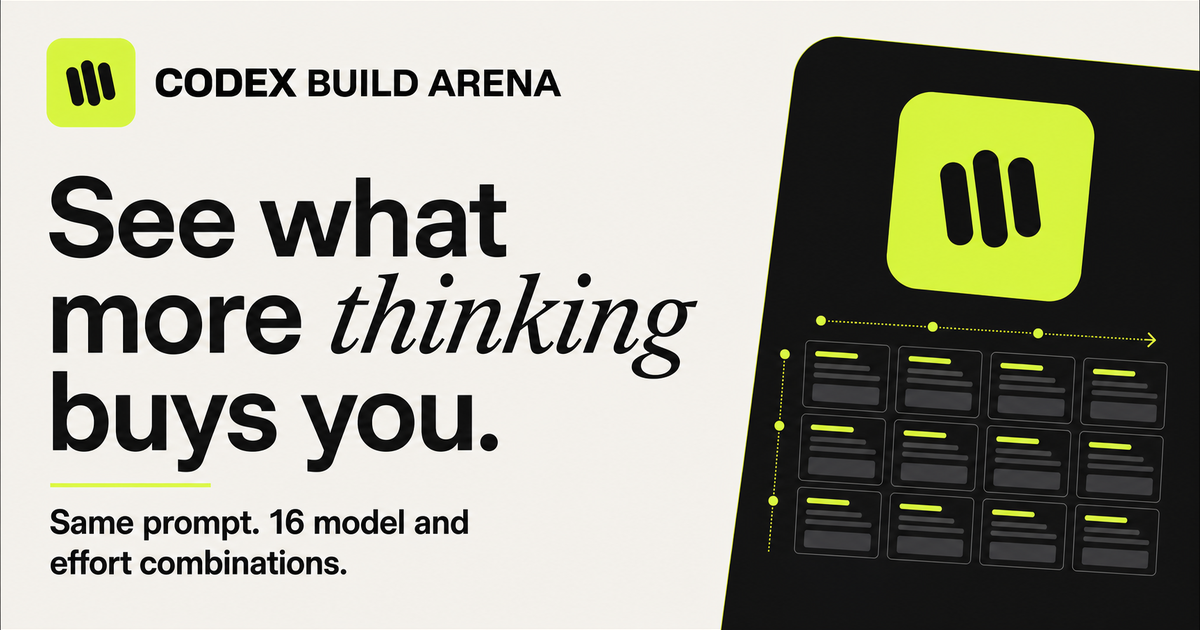
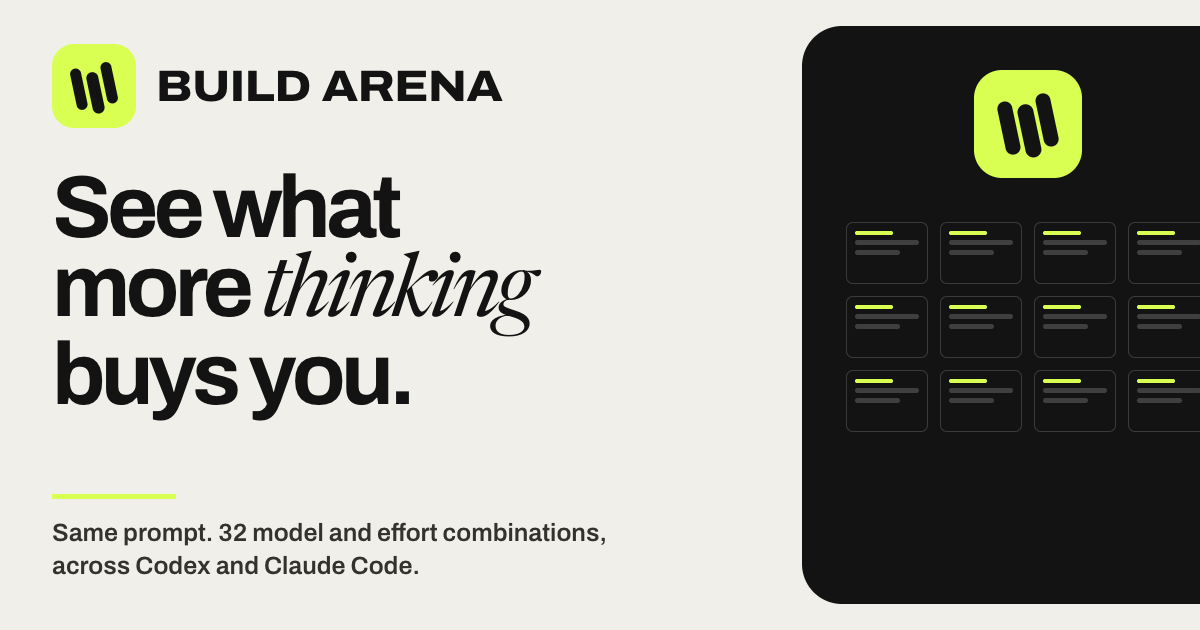
Update the social card and page metadata for two rolls
The title, description and OG image all claimed seventeen builds from
Codex alone, which stopped being true when the Claude Code roll landed.

- Replace the hand-made og-image.png with scripts/build-og-image.mjs, which
  renders scripts/og-image.html and reads the combination count from the
  benchmark configs. The previous card had no source, so its "16 model and
  effort combinations" had no obvious place to be corrected.
- Retitle to "Build Arena" throughout; the site is no longer Codex-only.
- Point the code reviewer at a chosen benchmark with --benchmark. The
  instrument stays frozen — rubric, reviewer model, effort and blinding are
  unchanged — and the config now names both corpora it covers.

🤖 Generated with [Claude Code](https://claude.com/claude-code)

Changed region(s): [[0.5858, 0.0302, 1.0, 1.0], [0.0308, 0.2714, 0.5858, 0.9349], [0.0308, 0.0603, 0.4625, 0.2111]]

diff --git a/scripts/og-image.html b/scripts/og-image.html
@@ -1,0 +1,144 @@
+<!doctype html>
+<html lang="en">
+  <head>
+    <meta charset="UTF-8" />
+    <link
+      rel="stylesheet"
+      href="https://fonts.googleapis.com/css2?family=Archivo:wdth,wght@62..125,400..800&family=Newsreader:ital,opsz,wght@1,6..72,400&display=swap"
+    />
+    <style>
+      * { box-sizing: border-box; margin: 0; padding: 0; }
+
+      body {
+        width: 1200px;
+        height: 630px;
+        display: flex;
+        overflow: hidden;
+        background: #f1efe9;
+        font-family: "Archivo", sans-serif;
+        color: #131313;
+        -webkit-font-smoothing: antialiased;
+      }
+
+      .copy {
+        flex: 1 1 auto;
+        padding: 44px 0 48px 52px;
+        display: flex;
+        flex-direction: column;
+      }
+
+      .lockup { display: flex; align-items: center; gap: 20px; }
+
+      .badge {
+        width: 84px;
+        height: 84px;
+        display: grid;
+        place-items: center;
+        border-radius: 22px;
+        background: #d8ff52;
+      }
+
+      .mark {
+        width: 42px;
+        height: 42px;
+        display: grid;
+        grid-template-columns: repeat(3, 1fr);
+        gap: 4px;
+        transform: rotate(-12deg);
+      }
+
+      .mark i { background: #131313; border-radius: 20px; }
+      .mark i:nth-child(2) { transform: translateY(7px); }
+
+      .wordmark {
+        font-size: 44px;
+        font-variation-settings: "wdth" 112, "wght" 800;
+        letter-spacing: -0.01em;
+        text-transform: uppercase;
+      }
+
+      h1 {
+        margin-top: 40px;
+        font-size: 88px;
+        line-height: 0.9;
+        letter-spacing: -0.055em;
+        font-variation-settings: "wdth" 100, "wght" 700;
+        font-weight: 400;
+      }
+
+      h1 em { font-family: "Newsreader", serif; font-style: italic; font-weight: 400; }
+
+      .rule { width: 124px; height: 5px; margin-top: auto; background: #d8ff52; }
+
+      .sub {
+        margin-top: 18px;
+        max-width: 600px;
+        font-size: 25px;
+        line-height: 1.3;
+        font-variation-settings: "wght" 600;
+        color: #33322f;
+      }
+
+      /* The slab on the right is the contact sheet itself, abstracted. */
+      .slab {
+        flex: 0 0 auto;
+        width: 452px;
+        margin: 26px -54px 26px 0;
+        padding: 44px 46px;
+        display: flex;
+        flex-direction: column;
+        align-items: center;
+        border-radius: 40px;
+        background: #131313;
+      }
+
+      .slab .badge { margin-bottom: 44px; width: 108px; height: 108px; border-radius: 28px; }
+      .slab .mark { width: 54px; height: 54px; }
+
+      .sheet { display: grid; grid-template-columns: repeat(4, 1fr); gap: 12px; }
+
+      .cell {
+        width: 82px;
+        height: 62px;
+        padding: 8px;
+        display: flex;
+        flex-direction: column;
+        gap: 5px;
+        border: 1px solid #3a3a3a;
+        border-radius: 7px;
+      }
+
+      .cell u { height: 4px; width: 60%; background: #d8ff52; border-radius: 4px; }
+      .cell b { height: 5px; background: #3f3f3f; border-radius: 4px; }
+      .cell b.short { width: 70%; }
+    </style>
+  </head>
+  <body>
+    <div class="copy">
+      <div class="lockup">
+        <div class="badge"><div class="mark"><i></i><i></i><i></i></div></div>
+        <div class="wordmark">Build Arena</div>
+      </div>
+
+      <h1>See what<br />more <em>thinking</em><br />buys you.</h1>
+
+      <div class="rule"></div>
+      <p class="sub" id="sub">Same prompt. 32 model and effort combinations, across Codex and Claude Code.</p>
+    </div>
+
+    <div class="slab">
+      <div class="badge"><div class="mark"><i></i><i></i><i></i></div></div>
+      <div class="sheet" id="sheet"></div>
+    </div>
+
+    <script>
+      const sheet = document.getElementById("sheet")
+      for (let index = 0; index < 12; index += 1) {
+        const cell = document.createElement("div")
+        cell.className = "cell"
+        cell.innerHTML = '<u></u><b></b><b class="short"></b>'
+        sheet.append(cell)
+      }
+    </script>
+  </body>
+</html>

diff --git a/site/index.html b/site/index.html
@@ -5,41 +5,41 @@
     <meta name="viewport" content="width=device-width, initial-scale=1.0, viewport-fit=cover" />
     <meta name="theme-color" content="#222120" />
     <meta name="color-scheme" content="dark" />
-    <meta name="application-name" content="Codex Build Arena" />
+    <meta name="application-name" content="Build Arena" />
     <meta name="apple-mobile-web-app-title" content="Build Arena" />
     <meta name="author" content="Özgür Celebi" />
     <meta name="robots" content="index, follow, max-image-preview:large" />
     <meta
       name="description"
-      content="One prompt, seventeen finished apps. Compare complete one-prompt Codex builds across GPT-5.6 Luna, Terra, Sol, and GPT-5.5 — live previews, engineering scores, tokens, credits, and speed on a single contact sheet."
+      content="One frozen prompt, one starter, no steering. Compare thirty-two finished apps across Codex and Claude Code — every model and reasoning-effort setting, with live previews, engineering scores, tokens, time and cost."
     />
     <link rel="canonical" href="https://oezguercelebi.github.io/codex-model-effort-lab/" />
 
     <meta property="og:type" content="website" />
     <meta property="og:locale" content="en_US" />
-    <meta property="og:site_name" content="Codex Build Arena" />
+    <meta property="og:site_name" content="Build Arena" />
     <meta property="og:url" content="https://oezguercelebi.github.io/codex-model-effort-lab/" />
-    <meta property="og:title" content="Codex Build Arena | One prompt, seventeen builds" />
+    <meta property="og:title" content="Build Arena | One prompt, thirty-two builds" />
     <meta
       property="og:description"
-      content="The same one-shot prompt across Codex models and effort levels. Every finished app on one contact sheet."
+      content="The same one-shot prompt across two agents and every reasoning-effort setting. Compare the finished apps, not a leaderboard."
     />
     <meta property="og:image" content="https://oezguercelebi.github.io/codex-model-effort-lab/og-image.png" />
     <meta property="og:image:secure_url" content="https://oezguercelebi.github.io/codex-model-effort-lab/og-image.png" />
     <meta property="og:image:type" content="image/png" />
     <meta property="og:image:width" content="1200" />
     <meta property="og:image:height" content="630" />
-    <meta property="og:image:alt" content="Codex Build Arena, seventeen builds from one prompt" />
+    <meta property="og:image:alt" content="Build Arena, see what more thinking buys you" />
 
     <meta name="twitter:card" content="summary_large_image" />
     <meta name="twitter:creator" content="@oezguercelebi" />
-    <meta name="twitter:title" content="Codex Build Arena | One prompt, seventeen builds" />
+    <meta name="twitter:title" content="Build Arena | One prompt, thirty-two builds" />
     <meta
       name="twitter:description"
-      content="The same one-shot prompt across Codex models and effort levels. Every finished app on one contact sheet."
+      content="The same one-shot prompt across two agents and every reasoning-effort setting. Compare the finished apps, not a leaderboard."
     />
     <meta name="twitter:image" content="https://oezguercelebi.github.io/codex-model-effort-lab/og-image.png" />
-    <meta name="twitter:image:alt" content="Codex Build Arena, seventeen builds from one prompt" />
+    <meta name="twitter:image:alt" content="Build Arena, see what more thinking buys you" />
 
     <link rel="icon" href="./favicon.ico" sizes="any" />
     <link rel="icon" type="image/png" sizes="32x32" href="./favicon-32x32.png" />
@@ -47,7 +47,7 @@
     <link rel="apple-touch-icon" sizes="180x180" href="./apple-touch-icon.png" />
     <link rel="manifest" href="./site.webmanifest" />
 
-    <title>Codex Build Arena | One prompt, seventeen builds</title>
+    <title>Build Arena | One prompt, thirty-two builds</title>
     <link rel="stylesheet" href="./styles.css" />
     <script type="module" src="./app.js"></script>
   </head>
